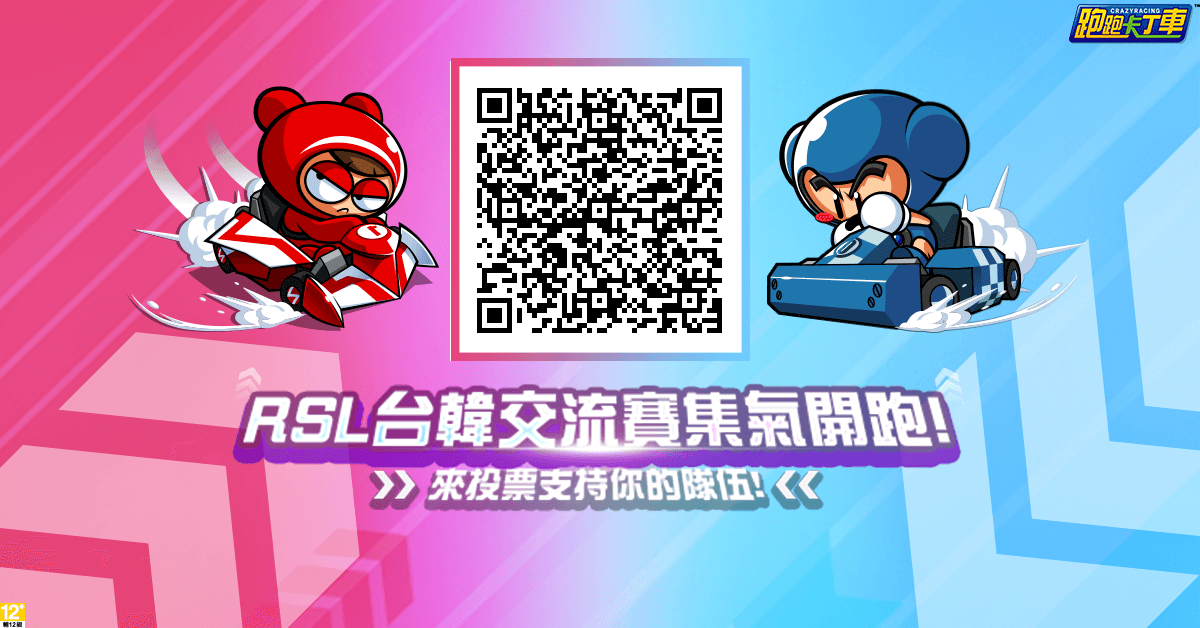
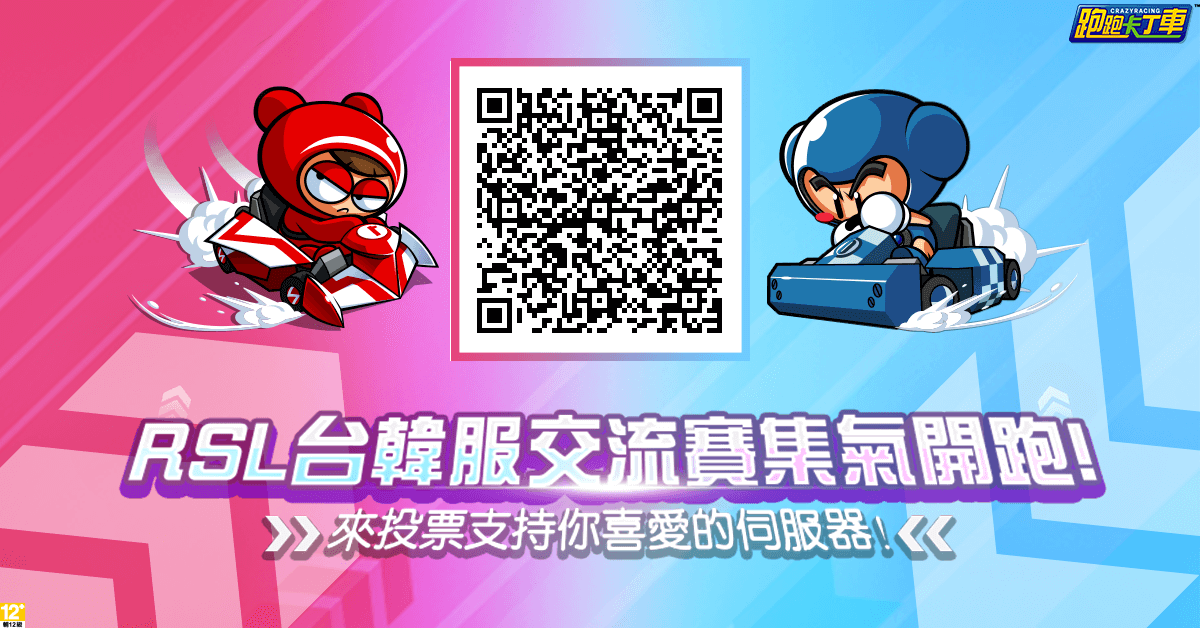
thanks to China agent

diff --git a/web/client/components/season2/vs-korea/support.vue b/web/client/components/season2/vs-korea/support.vue
@@ -5,7 +5,7 @@
     />
     <div class="text-body-1 mt-8">
       <p>
-        即日起至 08/27 09:59 為止，掃描活動 QRCode 或開啓 beanfun! APP 前往遊戲專區參加 RSL 台韓交流賽集氣活動，就能獲得集氣獎勵「V1 零件碎片 100 個」！
+        即日起至 08/27 09:59 為止，掃描活動 QRCode 或開啓 beanfun! APP 前往遊戲專區參加 RSL 台韓服交流賽集氣活動，就能獲得集氣獎勵「V1 零件碎片 100 個」！
       </p>
       <p>
         活動詳情請點擊下方橫幅圖片前往跑跑卡丁車官方網站查看。
@@ -20,7 +20,7 @@
         <v-img
           :aspect-ratio="1200 / 628"
           src="~/assets/images/season2/lsb/support.png"
-          alt="台韓交流賽集氣活動"
+          alt="台韓服交流賽集氣活動"
           eager
         />
       </a>

diff --git a/web/client/components/season2/summary/prizes.vue b/web/client/components/season2/summary/prizes.vue
@@ -142,7 +142,7 @@ export default {
           {
             title: '賽道紀錄霸主',
             subtitle: 'Track Master',
-            description: 'S2 賽季結束後（不包含台韓交流賽），保有最多張競速賽道最佳記錄的選手。',
+            description: 'S2 賽季結束後（不包含台韓服交流賽），保有最多張競速賽道最佳記錄的選手。',
             image: 'TT-3',
             content: [
               '獎金：NTD $3,000',
@@ -213,7 +213,7 @@ export default {
             ]
           },
           {
-            title: '台韓交流賽終極獎勵',
+            title: '台韓服交流賽終極獎勵',
             subtitle: 'Friendly Match Lottery',
             description: '活動方式後續公開，敬請關注 RSL 官方消息。',
             image: 'HyperX-3',

diff --git a/web/client/components/season2/vs-korea/broadcast.vue b/web/client/components/season2/vs-korea/broadcast.vue
@@ -5,7 +5,7 @@
     />
     <div class="text-body-1 mt-8">
       <p>
-        08/29 19:00（台北時間）、20:00（KST）起，RSL 夢想盃跑跑聯賽冠軍賽開始轉播，在冠軍隊伍出爐後後台韓交流賽緊接著登場，具體時間將根據冠軍賽賽程而異動，敬請準時鎖定，不錯過精彩比賽。
+        08/29 19:00（台北時間）、20:00（KST）起，RSL 夢想盃跑跑聯賽冠軍賽開始轉播，在冠軍隊伍出爐後後台韓服交流賽緊接著登場，具體時間將根據冠軍賽賽程而異動，敬請準時鎖定，不錯過精彩比賽。
       </p>
       <v-btn
         color="twitch"

diff --git a/web/client/pages/season2/vs-korea.vue b/web/client/pages/season2/vs-korea.vue
@@ -29,7 +29,7 @@ export default {
   },
   layout: 'season2',
   head () {
-    const title = '台韓交流賽 ft. Liiv SANDBOX'
+    const title = '台韓服交流賽 ft. Liiv SANDBOX'
     const description = lsb.event.description
 
     return {

diff --git a/web/client/layouts/season2.vue b/web/client/layouts/season2.vue
@@ -256,7 +256,7 @@ export default {
         badge: 'primary'
       },
       {
-        label: '台韓交流賽',
+        label: '台韓服交流賽',
         to: '/season2/vs-korea',
         badge: 'primary'
       },

diff --git a/web/client/components/season2/vs-korea/intro.vue b/web/client/components/season2/vs-korea/intro.vue
@@ -47,7 +47,7 @@ export default {
   data: () => ({
     sections: [
       {
-        title: '台韓交流賽',
+        title: '台韓服交流賽',
         description: lsb.event.description
       },
       {
